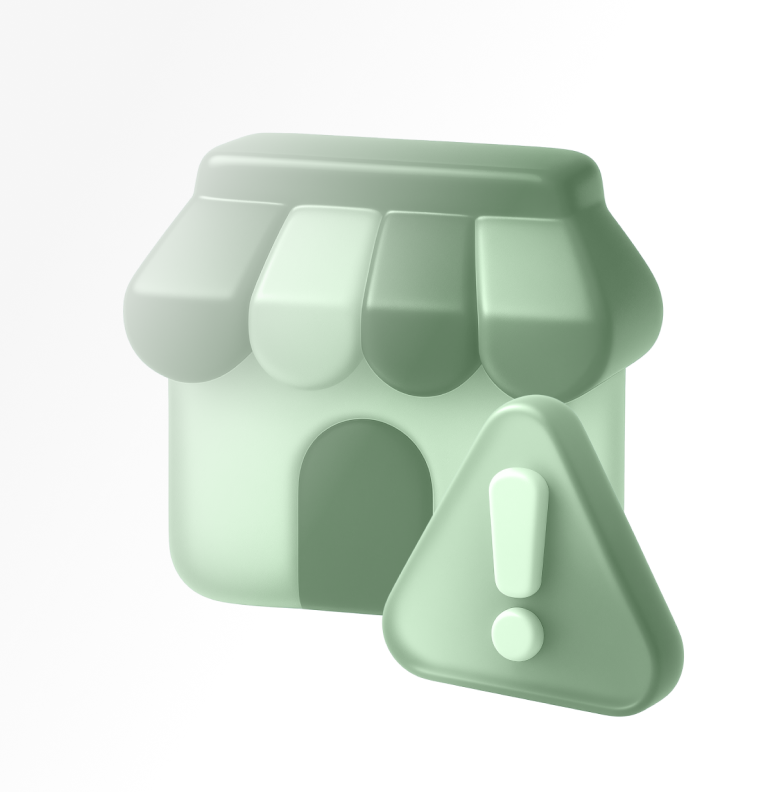
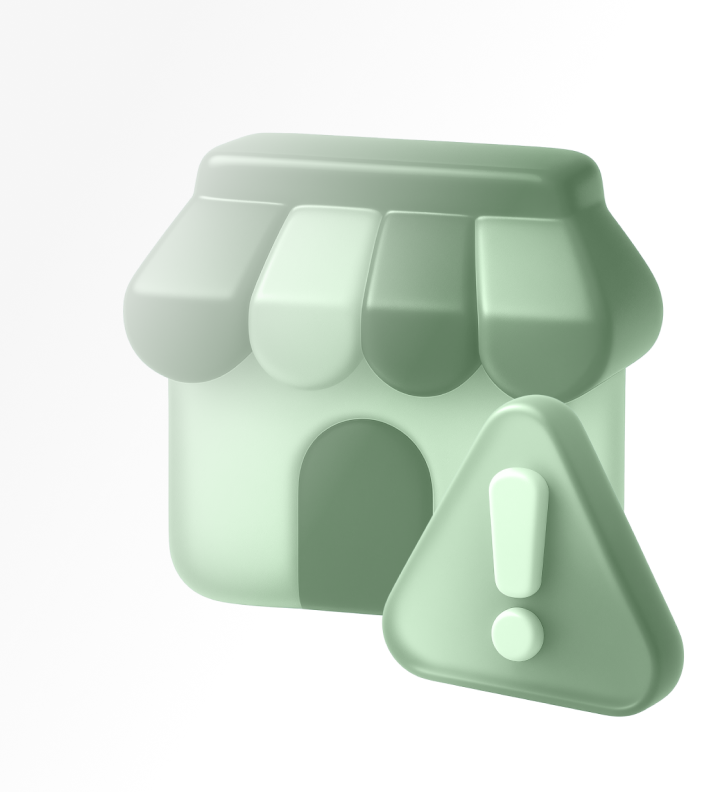
feat: add hero

diff --git a/src/pages/home/components/Hero.tsx b/src/pages/home/components/Hero.tsx
@@ -8,42 +8,50 @@ export default function Hero() {
     const { open } = useHeaderMenu();
 
     return (
-        <div className="flex flex-col gap-3">
-            <h1 className="font-title01 text-grey-900">
-                AI로 읽는
-                <br />
-                당신의 비즈니스.
-            </h1>
-
-            <div className="flex flex-col gap-1">
-                <h2 className="font-body04 text-grey-800">
-                    SIG:AI로,
+        <div className="relative">
+            <div className="relative z-10 flex flex-col gap-2 pt-8">
+                <h1 className="font-title01 text-grey-900">
+                    AI로 읽는
                     <br />
-                    보이지 않던 위험을 발견하세요.
-                </h2>
+                    당신의 비즈니스.
+                </h1>
 
-                {isAuthenticated ? (
-                    <Link
-                        to="/analysis"
-                        className="w-fit flex items-center pt-1.5 rounded-sm text-key-primary cursor-pointer hover:underline"
-                    >
-                        <span className="font-body05">
-                            내 비즈니스 분석하기
-                        </span>
-                        <ChevronRight size={16} />
-                    </Link>
-                ) : (
-                    <button
-                        className="w-fit flex items-center pt-1.5 rounded-sm text-key-primary cursor-pointer hover:underline"
-                        onClick={() => open()}
-                    >
-                        <span className="font-body05">
-                            내 비즈니스 분석하기
-                        </span>
-                        <ChevronRight size={16} />
-                    </button>
-                )}
+                <div className="flex flex-col gap-1">
+                    <h2 className="font-body04 text-grey-800">
+                        SIG:AI로,
+                        <br />
+                        보이지 않던 위험을 발견하세요.
+                    </h2>
+
+                    {isAuthenticated ? (
+                        <Link
+                            to="/analysis"
+                            className="w-fit flex items-center pt-1.5 rounded-sm text-key-primary cursor-pointer hover:underline"
+                        >
+                            <span className="font-body05">
+                                내 비즈니스 분석하기
+                            </span>
+                            <ChevronRight size={16} />
+                        </Link>
+                    ) : (
+                        <button
+                            className="w-fit flex items-center pt-1.5 rounded-sm text-key-primary cursor-pointer hover:underline"
+                            onClick={() => open()}
+                        >
+                            <span className="font-body05">
+                                내 비즈니스 분석하기
+                            </span>
+                            <ChevronRight size={16} />
+                        </button>
+                    )}
+                </div>
             </div>
+
+            <img
+                src={`${import.meta.env.BASE_URL}hero-icon.png`}
+                alt="SIG:AI"
+                className="absolute top-0 right-0 h-50 z-0"
+            />
         </div>
     );
 }

diff --git a/src/pages/home/index.tsx b/src/pages/home/index.tsx
@@ -2,7 +2,7 @@ import Hero from "./components/Hero";
 
 export default function HomePage() {
     return (
-        <div>
+        <div className="pt-4">
             <Hero />
         </div>
     );
